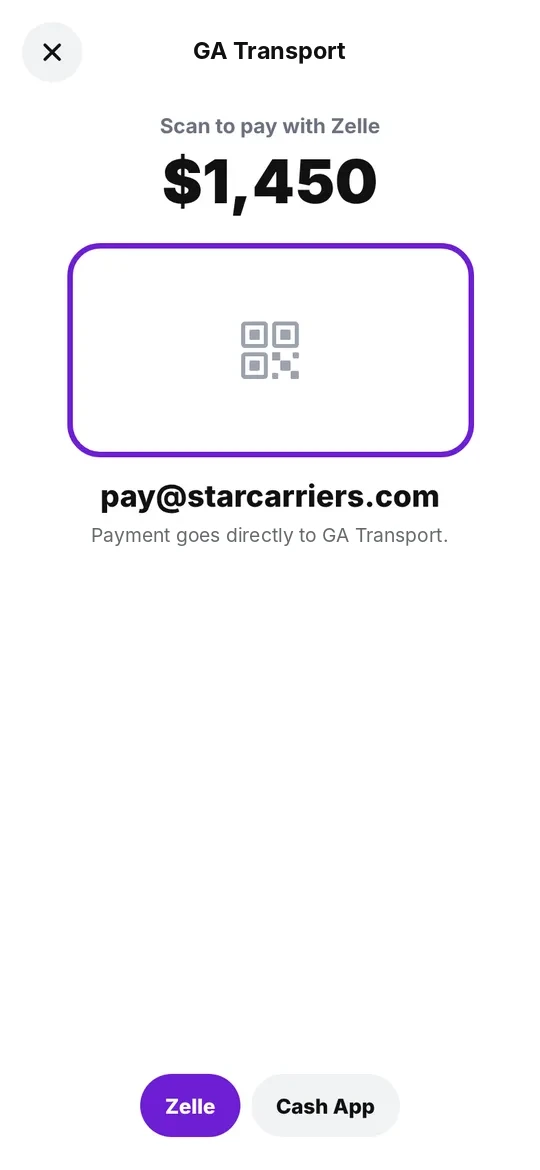
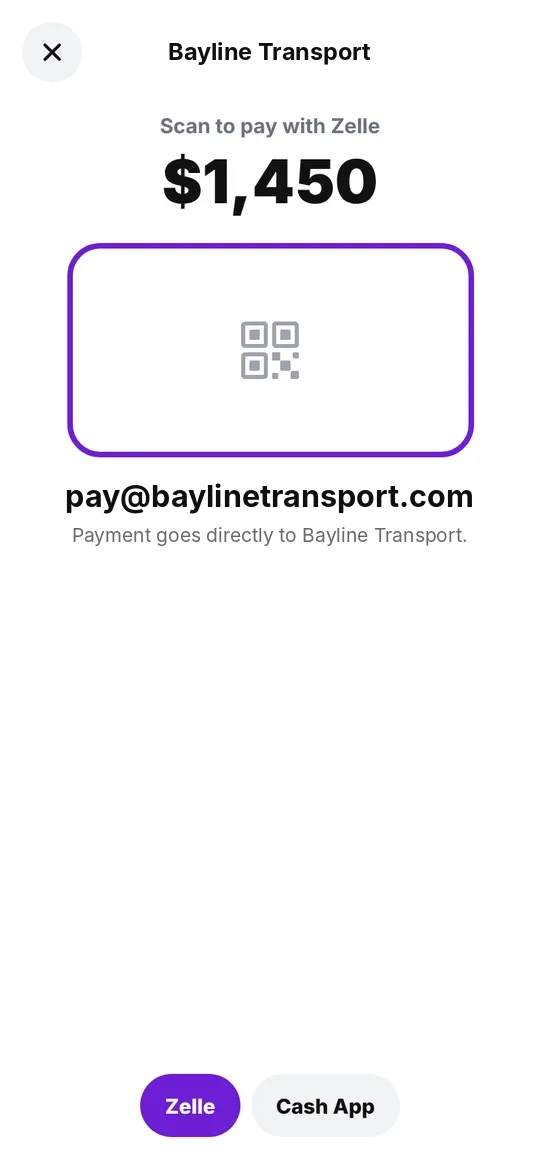
Use fictional company Bayline Transport in app screenshots (pay screen, drivers, invoices)
Claude-Session: https://claude.ai/code/session_01WCobV98wJbKE7ZX3uyGtaw

Changed region(s): [[0.1185, 0.4, 0.8889, 0.4615], [0.2963, 0.0308, 0.6815, 0.0615]]

diff --git a/index.html b/index.html
@@ -57,7 +57,7 @@
       <div class="checks"><span>✓ Works offline</span><span>✓ English · Español · Русский · Українська</span><span>✓ iPhone &amp; Android in 2027</span><span>✓ 30-day free trial</span></div>
     </div>
     <div class="hero-art" aria-hidden="true">
-      <div class="phone p1"><img src="img/invoices.webp" alt="" width="540" height="1171"></div>
+      <div class="phone p1"><img src="img/invoices.webp?v=2" alt="" width="540" height="1171"></div>
       <div class="phone p2"><img src="img/load.webp" alt="" width="540" height="1171"></div>
       <div class="toast"><div class="ic">✅</div><div><b>Invoice paid · $1,450</b><small>Sent from the truck</small></div></div>
     </div>
@@ -84,7 +84,7 @@
     <div class="steps">
       <div class="card"><span class="tag">Step 1</span><h3>Load &amp; inspect</h3><p>The camera walks you around each car. Mark damage, then place every car on the deck.</p><div class="phone"><img src="img/load.webp" alt="Load screen with deck view" loading="lazy" width="540" height="1171"></div></div>
       <div class="card"><span class="tag">Step 2</span><h3>Text the ETA, get signed</h3><p>One tap sends the customer your ETA. They sign on your phone or from a text link.</p><div class="phone"><img src="img/eta.webp" alt="ETA text screen" loading="lazy" width="540" height="1171"></div></div>
-      <div class="card"><span class="tag">Step 3</span><h3>Get paid</h3><p>Show your Zelle, Cash App or Venmo QR, or send the invoice before you leave.</p><div class="phone"><img src="img/pay-qr.webp" alt="Payment QR screen" loading="lazy" width="540" height="1171"></div></div>
+      <div class="card"><span class="tag">Step 3</span><h3>Get paid</h3><p>Show your Zelle, Cash App or Venmo QR, or send the invoice before you leave.</p><div class="phone"><img src="img/pay-qr.webp?v=3" alt="Payment QR screen" loading="lazy" width="540" height="1171"></div></div>
     </div>
   </div>
 </section>
@@ -116,7 +116,7 @@
     <div class="bento">
       <div class="big">
         <div><h3>Your whole team, one screen</h3><p style="margin-top:12px">Add drivers by phone number — they get a text to join. Assign loads, choose who sees the pay, and hand off loads when someone leaves.</p></div>
-        <div class="phone"><img src="img/drivers.webp" alt="Drivers screen" loading="lazy" width="540" height="1171"></div>
+        <div class="phone"><img src="img/drivers.webp?v=2" alt="Drivers screen" loading="lazy" width="540" height="1171"></div>
       </div>
       <div class="card"><div class="emo">📶</div><h3>Works with no signal</h3><p>Keep working at the auction, even create new loads. Everything sends by itself when you're back online.</p></div>
       <div class="card"><div class="emo">🧾</div><h3>Invoices &amp; factoring</h3><p>Broker info fills itself in. See what's owed, overdue and paid, and send a factoring packet in one tap.</p></div>
